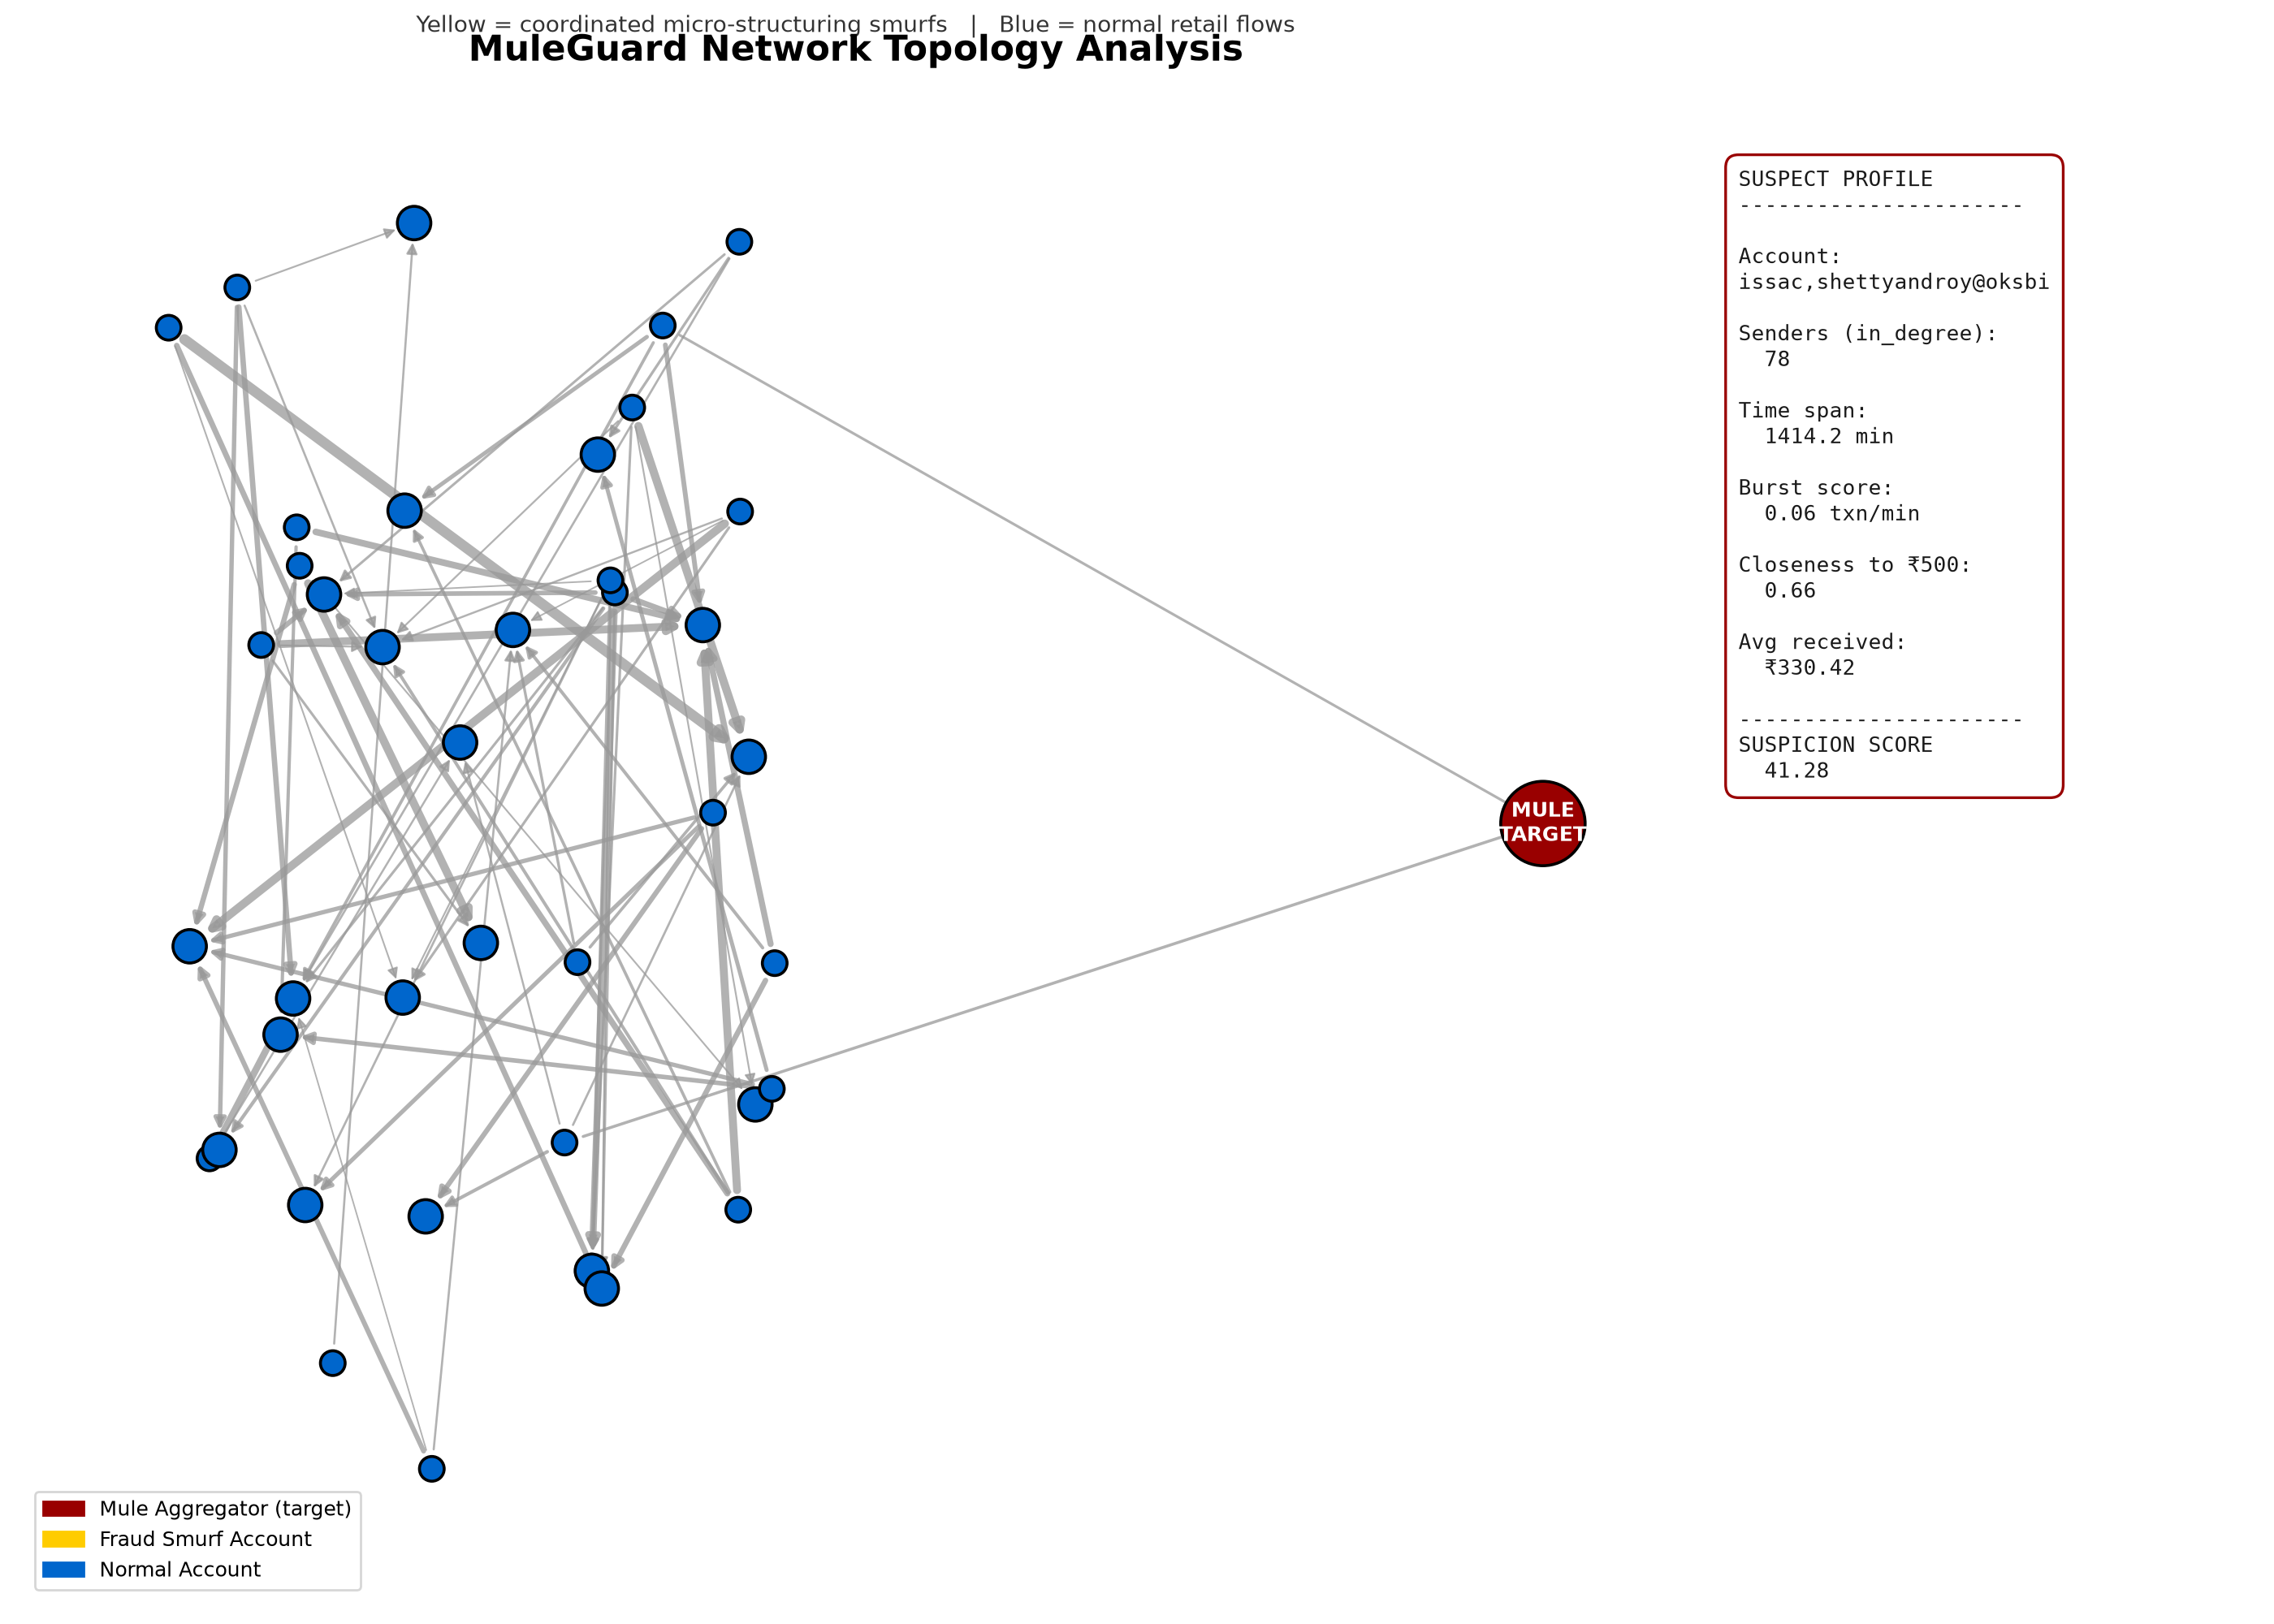
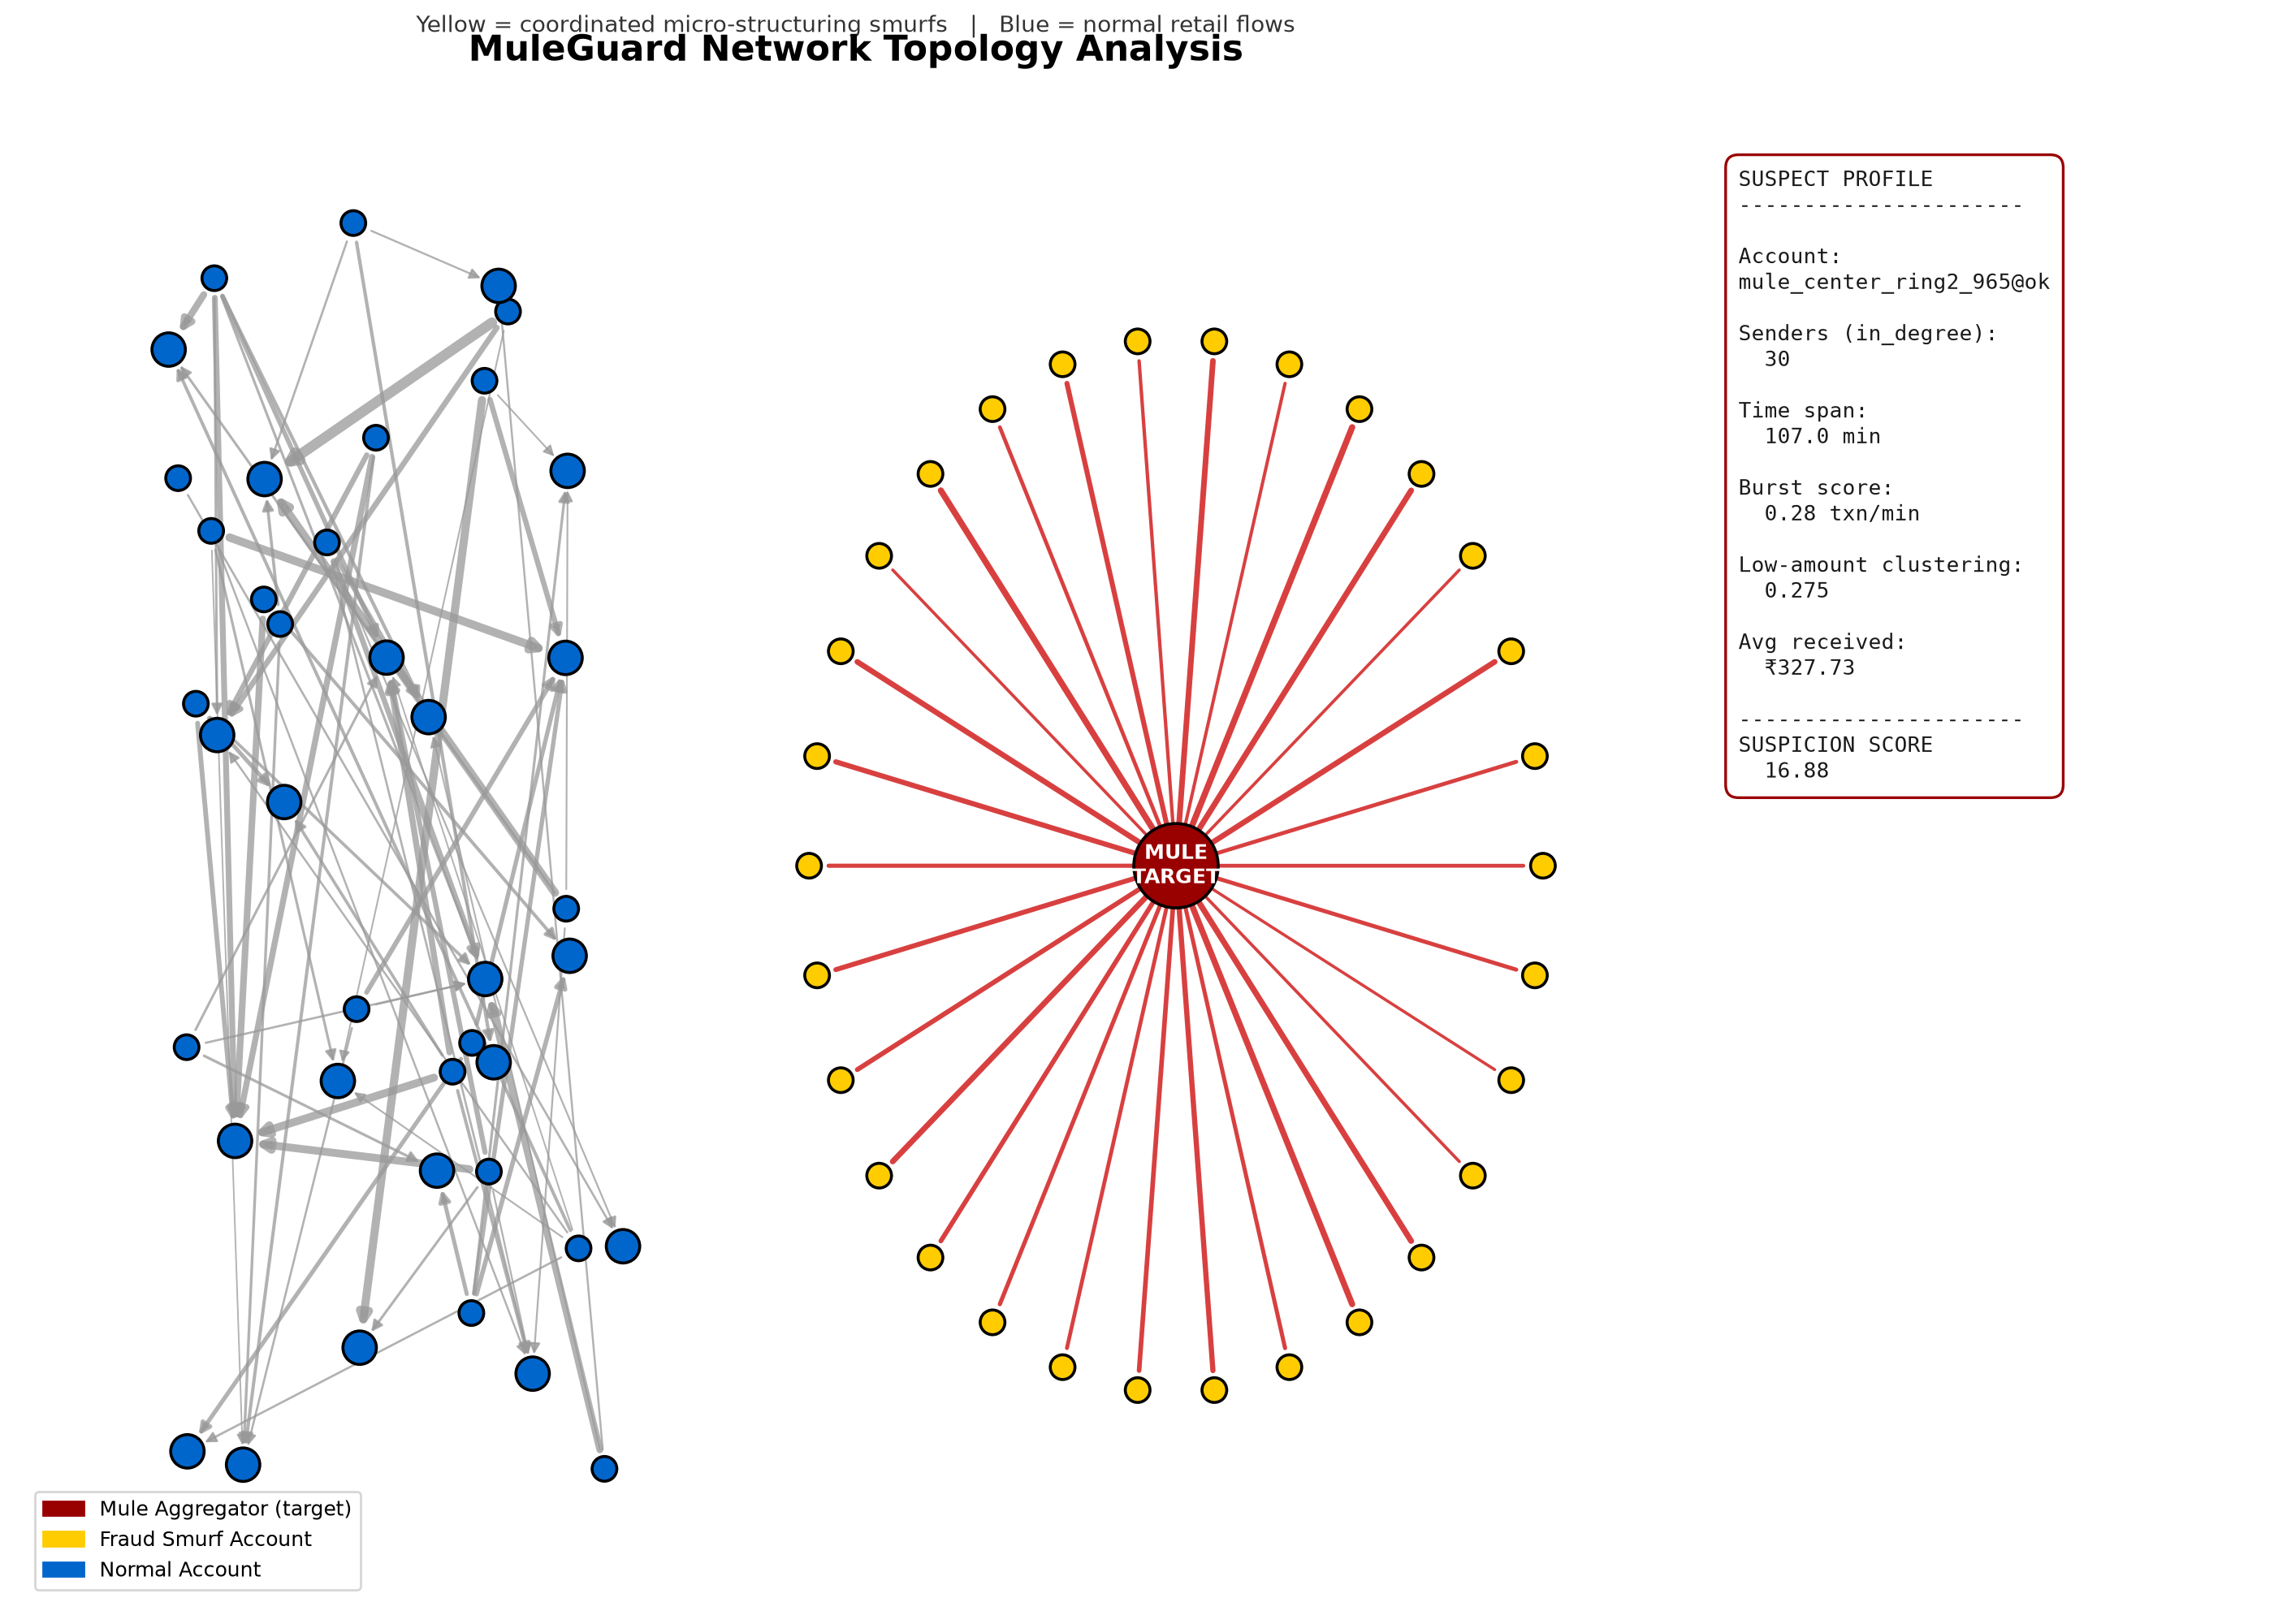
Confirmed fix - mule centers now correctly ranked above normal merchants

diff --git a/Model/build_graph.py b/Model/build_graph.py
@@ -45,7 +45,7 @@ def build_transaction_graph(csv_path='data/transactions.csv'):
         total_sent = sum(d['amount'] for _, _, d in outgoing)
         avg_received = total_received / in_degree if in_degree > 0 else 0
 
-        # NEW FEATURE 1: time_span_minutes
+        # FEATURE 1: time_span_minutes
         # How long (in minutes) between the FIRST and LAST incoming payment?
         # Mule centers receive 30+ payments within ~120 minutes.
         # Normal merchants receive payments spread across hours or days.
@@ -55,29 +55,16 @@ def build_transaction_graph(csv_path='data/transactions.csv'):
         else:
             time_span_minutes = 0
 
-        # NEW FEATURE 2: unique_senders_ratio
-        # What fraction of incoming senders are "new" (never sent to ANY account before
-        # this transaction)? Mule smurf accounts are usually freshly created / one-time use.
+        # FEATURE 2: unique_senders_ratio
         senders = [s for s, _, _ in incoming]
         unique_senders_ratio = len(set(senders)) / in_degree if in_degree > 0 else 0
 
-        # NEW FEATURE 3: burst_score
+        # FEATURE 3: burst_score
         # Transactions per minute during the account's busiest window.
-        # A high burst_score means money arrived in a rapid-fire stream -
-        # the signature of an automated structuring attack, not human behaviour.
+        # High burst_score = money arrived in a rapid-fire stream (automation signature).
         burst_score = in_degree / time_span_minutes if time_span_minutes > 0 else in_degree
 
-        # NEW FEATURE 4: closeness_to_500
-        # How close, on average, do incoming amounts sit to the ₹500 reporting threshold?
-        # 1.0 = right at the edge of ₹500 (classic structuring behaviour)
-        # 0.0 = nowhere near ₹500 (normal spending pattern)
-        if incoming:
-            amounts = [d['amount'] for _, _, d in incoming]
-            avg_amount = sum(amounts) / len(amounts)
-            closeness_to_500 = max(0, 1 - abs(500 - avg_amount) / 500)
-        else:
-            closeness_to_500 = 0
-
+        # temp storage for amounts, used below to calculate low_amount_clustering
         node_features[node] = {
             'in_degree': in_degree,
             'out_degree': out_degree,
@@ -87,19 +74,53 @@ def build_transaction_graph(csv_path='data/transactions.csv'):
             'time_span_minutes': round(time_span_minutes, 1),
             'unique_senders_ratio': round(unique_senders_ratio, 2),
             'burst_score': round(burst_score, 2),
-            'closeness_to_500': round(closeness_to_500, 2),
+            '_amounts': [d['amount'] for _, _, d in incoming],
         }
+
+    # --- FEATURE 4: low_amount_clustering (ADAPTIVE - no hardcoded Rs.500) ---
+    # Instead of assuming fraud always hides under Rs.500, we ask a RELATIVE question:
+    # "does this account receive payments that are unusually consistent and LOW
+    #  compared to the overall spread of amounts in THIS dataset?"
+    # This recalculates automatically for any dataset, any currency, any amount range.
+    all_amounts = df['amount'].tolist()
+    low_amount_cutoff = pd.Series(all_amounts).quantile(0.20)
+    print(f"\n(Adaptive threshold) 20th percentile amount in this dataset: Rs.{low_amount_cutoff:.2f}")
+    print("This replaces a hardcoded Rs.500 assumption - it recalculates for any dataset.")
+
+    for node in node_features:
+        amounts = node_features[node].pop('_amounts')
+        if amounts:
+            fraction_low = sum(1 for a in amounts if a < low_amount_cutoff) / len(amounts)
+            mean_amt = sum(amounts) / len(amounts)
+            if len(amounts) > 1 and mean_amt > 0:
+                variance = sum((a - mean_amt) ** 2 for a in amounts) / len(amounts)
+                std_dev = variance ** 0.5
+                coefficient_of_variation = std_dev / mean_amt
+            else:
+                coefficient_of_variation = 1.0
+            uniformity_score = max(0, 1 - coefficient_of_variation)
+            low_amount_clustering = round((fraction_low * 0.6) + (uniformity_score * 0.4), 3)
+        else:
+            low_amount_clustering = 0
+        node_features[node]['low_amount_clustering'] = low_amount_clustering
 
     nx.set_node_attributes(G, node_features)
 
     # --- Combine features into one overall "suspicion score" for ranking ---
-    # Higher in_degree + higher burst_score + higher closeness_to_500 = more suspicious
+    # FIX: burst_score is now the DOMINANT signal, not in_degree alone.
+    # A merchant with 78 customers spread across a full day (low burst_score) is normal.
+    # A mule center with 30 senders crammed into 2 hours (high burst_score) is the crime.
+    # in_degree still contributes but is CAPPED at 50 so raw customer count alone
+    # can't outrank genuinely fast, coordinated fraud activity.
     for node in node_features:
         f = node_features[node]
+        if f['in_degree'] < 5:
+            f['suspicion_score'] = 0.0
+            continue
         f['suspicion_score'] = round(
-            (f['in_degree'] * 0.4) +
-            (f['burst_score'] * 10 * 0.3) +
-            (f['closeness_to_500'] * 50 * 0.3),
+            (f['burst_score'] * 60 * 0.5) +
+            (f['low_amount_clustering'] * 30 * 0.3) +
+            (min(f['in_degree'], 50) * 0.2),
             2
         )
     nx.set_node_attributes(G, node_features)
@@ -110,7 +131,7 @@ def build_transaction_graph(csv_path='data/transactions.csv'):
     for account, f in sorted_by_suspicion[:5]:
         print(f"\n{account}")
         print(f"   in_degree: {f['in_degree']}  |  time_span: {f['time_span_minutes']} min  |  burst_score: {f['burst_score']}")
-        print(f"   closeness_to_500: {f['closeness_to_500']}  |  suspicion_score: {f['suspicion_score']}")
+        print(f"   low_amount_clustering: {f['low_amount_clustering']}  |  suspicion_score: {f['suspicion_score']}")
 
     os.makedirs('model', exist_ok=True)
     with open('model/transaction_graph.pkl', 'wb') as f:
@@ -131,7 +152,6 @@ def plot_top_mule_ring(G, sorted_by_suspicion, save_path='model/mule_ring_plot.p
     subgraph = G.subgraph(sub_nodes)
 
     fig = plt.figure(figsize=(14, 10), facecolor='#FFFFFF')
-    # Split into a main plot (network) and a side panel (stats)
     gs = fig.add_gridspec(1, 4)
     ax_main = fig.add_subplot(gs[0, :3])
     ax_side = fig.add_subplot(gs[0, 3])
@@ -140,7 +160,6 @@ def plot_top_mule_ring(G, sorted_by_suspicion, save_path='model/mule_ring_plot.p
     ax_side.set_facecolor('#F7F7F9')
     ax_side.axis('off')
 
-    # --- Manual layout ---
     pos = {top_account: (0.5, 0.0)}
     for idx, node in enumerate(fraud_senders):
         angle = (2 * math.pi * idx) / max(len(fraud_senders), 1)
@@ -148,7 +167,6 @@ def plot_top_mule_ring(G, sorted_by_suspicion, save_path='model/mule_ring_plot.p
     for idx, node in enumerate(normal_nodes):
         pos[node] = (random.uniform(-0.6, -0.1), random.uniform(-0.5, 0.5))
 
-    # --- Node size now SCALES with in_degree - bigger dot = more connections ---
     node_colors, node_sizes = [], []
     for node in subgraph.nodes():
         in_deg = G.nodes[node].get('in_degree', 1)
@@ -165,7 +183,6 @@ def plot_top_mule_ring(G, sorted_by_suspicion, save_path='model/mule_ring_plot.p
     nx.draw_networkx_nodes(subgraph, pos, ax=ax_main, node_color=node_colors,
                             node_size=node_sizes, edgecolors='black', linewidths=1.3)
 
-    # --- Edge thickness now reflects transaction amount ---
     edge_colors, edge_widths = [], []
     for u, v in subgraph.edges():
         amt = G[u][v].get('amount', 0)
@@ -186,7 +203,6 @@ def plot_top_mule_ring(G, sorted_by_suspicion, save_path='model/mule_ring_plot.p
                  transform=ax_main.transAxes, ha='center', fontsize=10, color='#333333')
     ax_main.axis('off')
 
-    # --- Legend ---
     legend_handles = [
         mpatches.Patch(color='#990000', label='Mule Aggregator (target)'),
         mpatches.Patch(color='#FFCC00', label='Fraud Smurf Account'),
@@ -194,7 +210,6 @@ def plot_top_mule_ring(G, sorted_by_suspicion, save_path='model/mule_ring_plot.p
     ]
     ax_main.legend(handles=legend_handles, loc='lower left', fontsize=9, frameon=True)
 
-    # --- Side panel: the actual suspicion stats, in plain numbers ---
     stats_text = (
         f"SUSPECT PROFILE\n"
         f"{'-'*22}\n\n"
@@ -202,7 +217,7 @@ def plot_top_mule_ring(G, sorted_by_suspicion, save_path='model/mule_ring_plot.p
         f"Senders (in_degree):\n  {top_features['in_degree']}\n\n"
         f"Time span:\n  {top_features['time_span_minutes']} min\n\n"
         f"Burst score:\n  {top_features['burst_score']} txn/min\n\n"
-        f"Closeness to ₹500:\n  {top_features['closeness_to_500']}\n\n"
+        f"Low-amount clustering:\n  {top_features['low_amount_clustering']}\n\n"
         f"Avg received:\n  ₹{top_features['avg_received']}\n\n"
         f"{'-'*22}\n"
         f"SUSPICION SCORE\n"